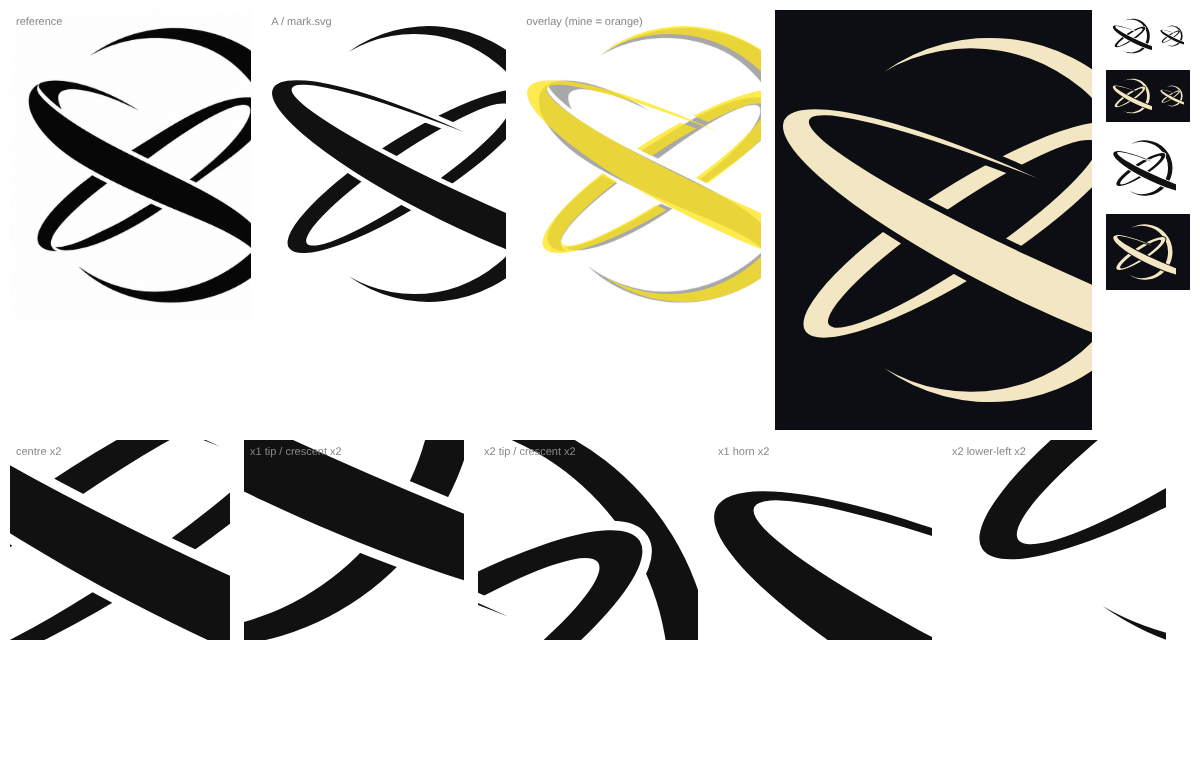
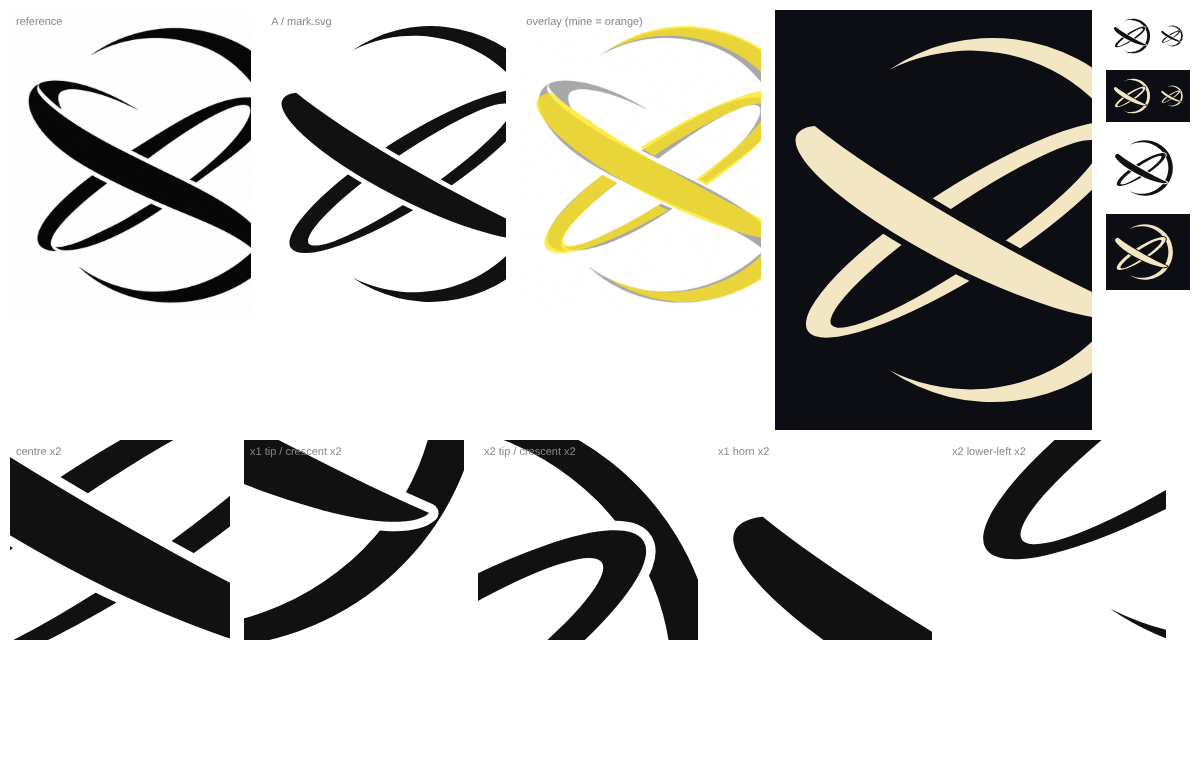
Checkpoint Crescent X vector workflow progress
Claude-Session: https://claude.ai/code/session_01HJ7svxD6zD3sQmr4yuV3M5

diff --git a/brand/work/crescent-x/A/gen_mark.py b/brand/work/crescent-x/A/gen_mark.py
@@ -37,22 +37,22 @@ INK   = "#111111"
 LIGHT = "#F3E7C3"
 GAP   = 7.5                     # weave gap width (units)
 
-# crescent
-OX, OY, R = 262.0, 256.0, 222.0  # outer circle
-CD, R2    = 23.0, 209.5          # inner circle: centre shifted CD to the left, radius R2
+# crescent: outer circle (O, R) minus an inner cut-out whose centre is shifted CD to the
+# left.  The cut-out is a circle stretched 3% horizontally (CRX x CRY): a pure circle with
+# the same tips (10.8 / 7.2 o'clock) came out ~25% thinner at 12 and 6 o'clock than the
+# reference; the slight stretch restores that weight while keeping the smooth taper.
+OX, OY, R = 265.0, 256.0, 222.0
+CD, CRX, CRY = 27.0, 213.0, 206.5
 
 # x1 (descending, upper-left -> lower-right).  Outer ellipse E and lens L, absolute.
 # The lens is longer, narrower, lower-right-shifted and rotated a few degrees flatter
 # than the outer ellipse, so it pokes out through the upper-right edge from about a
 # third of the way along: that leaves a thin horn at the upper-left end, an open upper
 # edge, and a thick band that tapers to a point on the crescent at the lower right.
-X1 = dict(E=(318.7, 284.3, 342.0, 72.0, 26.0),
-          L=(418.8, 297.2, 411.0, 47.5, 23.4))
-# x2 (ascending, lower-left -> upper-right).  Lens stays inside: thick upper-left edge
-# at the lower-left end, thick lower-right edge at the upper-right end (lens rotated
-# ~2 deg steeper than the outer ellipse and shifted ~3 units toward the lower-right).
-X2 = dict(E=(231.1, 267.8, 230.0, 54.8, -32.4),
-          L=(228.9, 272.9, 197.3, 35.1, -34.2))
+X1 = dict(E=(236.8, 259.3, 236.0, 56.0, 27.0),
+          L=(286.0, 250.8, 310.0, 36.0, 29.0))
+X2 = dict(E=(234.1, 267.8, 230.0, 54.8, -32.4),
+          L=(231.9, 272.9, 197.3, 35.1, -34.2))
 
 
 def f(v):
@@ -146,7 +146,7 @@ def band_path(E, L):
 
 def crescent_path():
     O = Ell(OX, OY, R, R, 0.0)
-    I = Ell(OX - CD, OY, R2, R2, 0.0)
+    I = Ell(OX - CD, OY, CRX, CRY, 0.0)
     d, kind = band_path(O, I)
     return d, kind, O, I
 
@@ -195,15 +195,17 @@ def diagnostics():
         pts = [tuple(round(v, 1) for v in E.pt(t)) for t in intersections(E, L)]
         print(f"{name}: outer/lens crossings (horn end, pointed tip) {pts}")
     # ring tips vs crescent band
-    for name, E in (("x1 lower-right tip", E1), ("x2 upper-right tip", E2)):
-        p = E.pt(0.0)
-        dO = math.hypot(p[0] - OX, p[1] - OY)
-        dI = math.hypot(p[0] - (OX - CD), p[1] - OY)
-        print(f"{name} at {tuple(round(v,1) for v in p)}: {round(dI - R2,1)} past inner edge, {round(R - dO,1)} inside outer edge")
-    for name, L in (("x1 lens LR tip", L1), ("x2 lens UR tip", L2)):
-        p = L.pt(0.0)
-        dI = math.hypot(p[0] - (OX - CD), p[1] - OY)
-        print(f"{name} at {tuple(round(v,1) for v in p)}: {round(dI - R2,1)} past inner edge")
+    def band_depth(p):
+        """how far p lies inside the crescent band, measured along the ray from O (units; <0 = in the hole)"""
+        t = math.atan2(p[1] - OY, p[0] - OX)
+        r = R
+        while r > 0 and not CI.inside((OX + r * math.cos(t), OY + r * math.sin(t))):
+            r -= 0.25
+        return math.hypot(p[0] - OX, p[1] - OY) - r, R - math.hypot(p[0] - OX, p[1] - OY)
+    x1tip = sorted(intersections(E1, L1), key=lambda t: E1.pt(t)[0])
+    for name, p in (("x1 pointed tip", E1.pt(x1tip[-1]) if x1tip else E1.pt(0.0)), ("x2 upper-right tip", E2.pt(0.0)), ("x2 lens UR tip", L2.pt(0.0))):
+        di, do = band_depth(p)
+        print(f"{name} at {tuple(round(v,1) for v in p)}: {round(di,1)} past crescent inner edge, {round(do,1)} inside outer edge")
     # crescent tips
     for t in intersections(CO, CI):
         p = CO.pt(t)
@@ -211,15 +213,10 @@ def diagnostics():
         print(f"crescent tip at {tuple(round(v,1) for v in p)}  angle {round(ang,1)}  clock {round(((ang+90)%360)/30,1)}")
     for ang in (0, 45, 90, -45, -90, 110, -110):
         t = math.radians(ang)
-        # inner edge along ray from O
-        d, r2 = CD, R2
-        tt = -(-d) * math.cos(t) * -1  # placeholder
-        # solve |O + s(cos,sin) - I| = R2
-        bx = OX - (OX - CD)
-        qb = 2 * (bx * math.cos(t))
-        qc = bx * bx - r2 * r2
-        s = (-qb + math.sqrt(qb * qb - 4 * qc)) / 2
-        print(f"crescent thickness at {ang:4d} deg: {round(R - s,1)}")
+        r = R
+        while r > 0 and not CI.inside((OX + r * math.cos(t), OY + r * math.sin(t))):
+            r -= 0.25
+        print(f"crescent thickness at {ang:4d} deg: {round(R - r,1)}")
     # bbox
     xs, ys = [], []
     for E in (E1, E2, CO):
